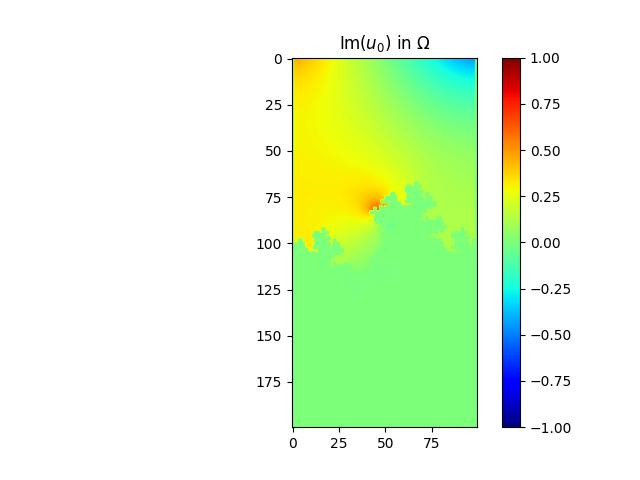
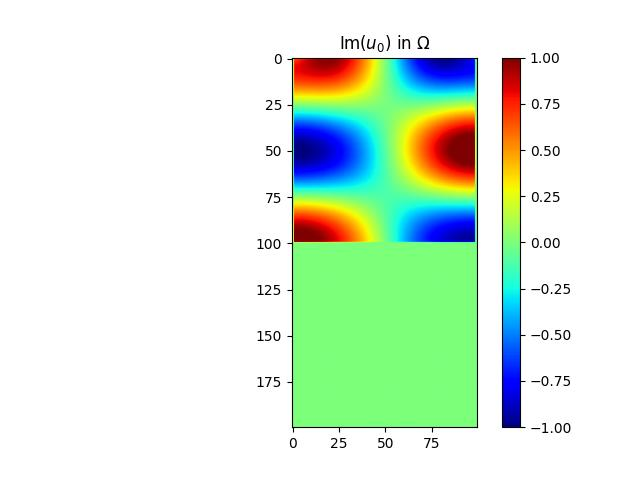
commit montée de gradient

Changed region(s): [[0.4375, 0.0938, 0.75, 0.5625]]

diff --git a/demo_control_polycopie2023.py b/demo_control_polycopie2023.py
@@ -12,9 +12,9 @@ import preprocessing
 import processing
 import postprocessing
 #import solutions
-# np.set_printoptions(threshold=np.inf)
+np.set_printoptions(threshold=np.inf)
 
-def compute_J_prim(alpha, u, p) :
+def compute_J_prim(alpha, u, p):
     #alpha complexe
     M,N=np.shape(u)
     res=np.zeros((M,N))
@@ -147,21 +147,21 @@ def compute_projected(chi, domain, V_obj):
         #print("écart", ecart)
         #print('le volume est', V, 'le volume objectif est', V_obj)
 
-    chi=chi_zero_ou_un (M, N, chi, S, V_obj, list_rob)
+#    chi=chi_zero_ou_un (M, N, chi, S, V_obj, list_rob)
 
     return chi
 
-def chi_zero_ou_un (M, N, chi, S, V_obj, list_rob) :
-    for el in list_rob :
-        el[1]=chi[el[0]]
-    list_rob=sorted(list_rob, key=lambda couple : couple[1], reverse=True)
-    chiprim = np.zeros((M,N))
-    for i in range(int(S*V_obj)) :
-        chiprim[list_rob[i][0]]=1
-    return chiprim
+#def chi_zero_ou_un (M, N, chi, S, V_obj, list_rob) :
+#    for el in list_rob :
+#        el[1]=chi[el[0]]
+#    list_rob=sorted(list_rob, key=lambda couple : couple[1], reverse=True)
+#    chiprim = np.zeros((M,N))
+#    for i in range(int(S*V_obj)) :
+#        chiprim[list_rob[i][0]]=1
+#    return chiprim
 
 
-def your_optimization_procedure(domain_omega, spacestep, wavenumber, f, f_dir, f_neu, f_rob,
+
 def your_optimization_procedure(domain_omega, spacestep, wavenumber, f, f_dir, f_neu, f_rob,
                            beta_pde, alpha_pde, alpha_dir, beta_neu, beta_rob, alpha_rob,
                            Alpha, mu, chi, V_obj):
@@ -185,10 +185,8 @@ def your_optimization_procedure(domain_omega, spacestep, wavenumber, f, f_dir, f
         print(f"k={k}")
         #print('1. computing solution of Helmholtz problem, i.e., u')
         u=processing.solve_helmholtz(domain_omega, spacestep, wavenumber, f, f_dir, f_neu, f_rob, beta_pde, alpha_pde, alpha_dir, beta_neu, beta_rob, alpha_rob)
-        u=processing.solve_helmholtz(domain_omega, spacestep, wavenumber, f, f_dir, f_neu, f_rob, beta_pde, alpha_pde, alpha_dir, beta_neu, beta_rob, alpha_rob)
         #print('2. computing solution of adjoint problem, i.e., p')
-        p=processing.solve_helmholtz(domain_omega, spacestep, wavenumber, np.conjugate(-2*u), np.zeros_like(domain_omega), f_neu, f_rob, beta_pde, alpha_pde, alpha_dir, beta_neu, beta_rob, alpha_rob)
-        p=processing.solve_helmholtz(domain_omega, spacestep, wavenumber, np.conjugate(-2*u), np.zeros_like(domain_omega), f_neu, f_rob, beta_pde, alpha_pde, alpha_dir, beta_neu, beta_rob, alpha_rob)
+        p=processing.solve_helmholtz(domain_omega, spacestep, wavenumber, np.conjugate(-2*u), np.zeros((M,N)), f_neu, f_rob, beta_pde, alpha_pde, alpha_dir, beta_neu, beta_rob, alpha_rob)
         #print('3. computing objective function, i.e., energy')
         J=your_compute_objective_function(u,spacestep)
         energy[k]=J
@@ -197,8 +195,10 @@ def your_optimization_procedure(domain_omega, spacestep, wavenumber, f, f_dir, f
         #print('4. computing parametric gradient')
         ene=J
         grad = -Jprim
+        #print("Jprim=",Jprim)
+        #print("grad=",grad)
+        is_good = True
         while ene >= energy[k] and mu > 10 ** -5:
-            
             #print('    a. computing gradient descent')
             chi = compute_gradient_descent(chi, grad, domain_omega, mu) #chi_k+1 sans projection (l=0)
 
@@ -206,7 +206,6 @@ def your_optimization_procedure(domain_omega, spacestep, wavenumber, f, f_dir, f
             chi = compute_projected(chi, domain_omega, V_obj)
             alpha_rob = Alpha*chi
             #print('    c. computing solution of Helmholtz problem, i.e., u')
-            u=processing.solve_helmholtz(domain_omega, spacestep, wavenumber, f, f_dir, f_neu, f_rob, beta_pde, alpha_pde, alpha_dir, beta_neu, beta_rob, alpha_rob)
             u=processing.solve_helmholtz(domain_omega, spacestep, wavenumber, f, f_dir, f_neu, f_rob, beta_pde, alpha_pde, alpha_dir, beta_neu, beta_rob, alpha_rob)
             
 
@@ -260,9 +259,9 @@ if __name__ == '__main__':
     # ----------------------------------------------------------------------
     # -- set parameters of the geometry
 
-    N = 50  # number of points along x-axis
+    N = 100  # number of points along x-axis
     M = 2 * N  # number of points along y-axis
-    level = 2 # level of the fractal
+    level = 0 # level of the fractal
     spacestep = 1.0 / N  # mesh size
 
     # -- set parameters of the partial differential equation
@@ -294,6 +293,7 @@ if __name__ == '__main__':
     f_dir[:, :] = 0.0
     for j in range(N) :
         f_dir[0, j] = g(spacestep*(j-N/2), omega)
+    #f_dir[0, 0:N] = g(0, omega)
 
     # spherical wave defined on top
     #f_dir[:, :] = 0.0
@@ -306,8 +306,8 @@ if __name__ == '__main__':
 
     # -- define absorbing material
     import compute_alpha
-    Alpha = compute_alpha.compute_alpha(N*spacestep, omega, g)
-    #Alpha = 4.259503502537576+0.17454478468463255j
+    #Alpha = compute_alpha.compute_alpha(N*spacestep, omega, g)
+    Alpha = (1-1j)
     alpha_rob = Alpha * chi
     
 
@@ -320,7 +320,7 @@ if __name__ == '__main__':
 
     V_0 = 1  # initial volume of the domain
     V_obj = np.sum(np.sum(chi)) / S  # constraint on the density
-    mu = 10 ** -2  # initial gradient step
+    mu = 10 ** -1  # initial gradient step
     mu1 = 10**(-5)  # parameter of the volume functional
 
     # ----------------------------------------------------------------------
